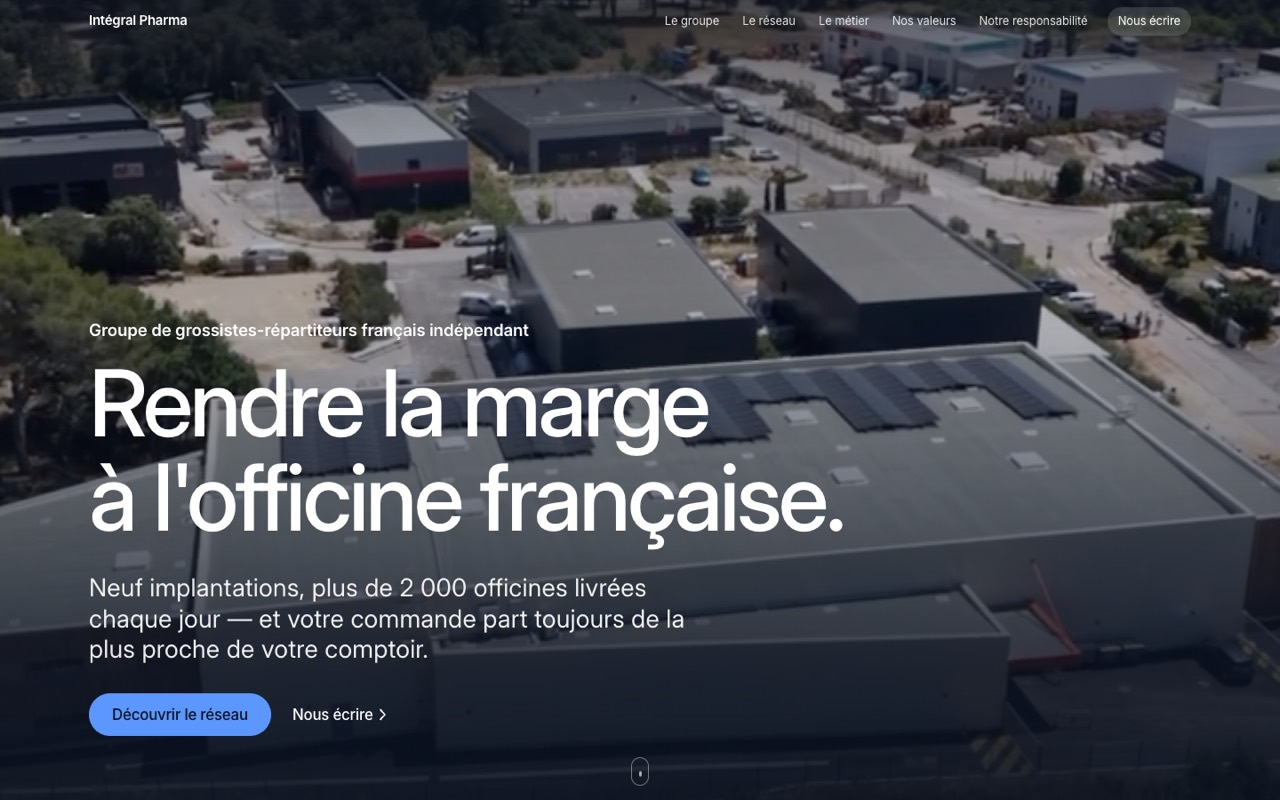
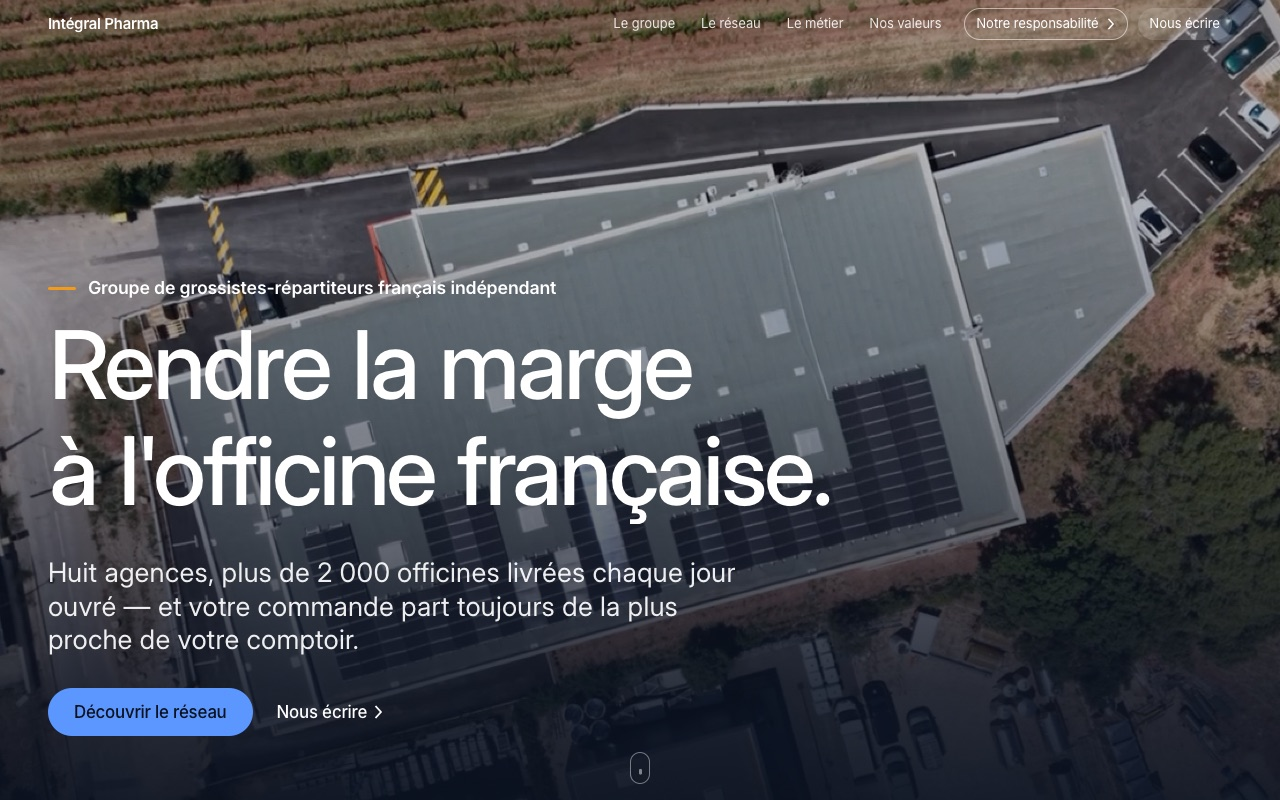
ux(marketing): apercu du site a jour (relecture du 18/09) — cache 20260918a

diff --git a/crm/v2/index.html b/crm/v2/index.html
@@ -12,7 +12,7 @@
     if ('serviceWorker' in navigator) {
       window.addEventListener('load', function () {
         var hadController = !!navigator.serviceWorker.controller;
-        navigator.serviceWorker.register('sw.js?v=20260917d').then(function (reg) {
+        navigator.serviceWorker.register('sw.js?v=20260918a').then(function (reg) {
           try { reg.update(); } catch (e) {}   // vérifie tout de suite au chargement          // pendant une longue session, re-vérifier périodiquement s'il y a une nouvelle version
           setInterval(function () { try { reg.update(); } catch (e) {} }, 5 * 60 * 1000);
           // dès qu'on revient sur l'appli (onglet réactivé) : re-check -> bannière « Actualiser » si nouvelle version
@@ -151,13 +151,13 @@
     <link href="https://fonts.googleapis.com/css2?family=Geist+Mono:wght@400;500;600;700&display=swap" rel="stylesheet">
   </noscript>
   <link rel="dns-prefetch" href="https://images.weserv.nl">
-  <link rel="stylesheet" href="v2.css?v=20260917d" />
-  <link rel="stylesheet" href="v2-motion.css?v=20260917d" />
+  <link rel="stylesheet" href="v2.css?v=20260918a" />
+  <link rel="stylesheet" href="v2-motion.css?v=20260918a" />
   <!-- Peau « Verrière » (choix Will 12/08/2026) — chargée en dernier, purement additive -->
-  <link rel="stylesheet" href="v2-verriere.css?v=20260917d" />
+  <link rel="stylesheet" href="v2-verriere.css?v=20260918a" />
 
   <!-- PWA : installable sur l'écran d'accueil (iOS + Android) -->
-  <link rel="manifest" href="manifest.webmanifest?v=20260917d" />
+  <link rel="manifest" href="manifest.webmanifest?v=20260918a" />
   <link rel="apple-touch-icon" href="icons/apple-touch-icon.png" />  <meta name="apple-mobile-web-app-capable" content="yes" />
   <meta name="apple-mobile-web-app-status-bar-style" content="default" />
   <meta name="apple-mobile-web-app-title" content="JARVIS" />
@@ -180,7 +180,7 @@
   <!-- 11/09/2026 — perf : copie locale épinglée (même fichier que rdv.html). Servie par le
        service worker, plus de troisième domaine avant le premier rendu, et la version ne
        change plus sans nous. Même origine = traces d'erreur complètes. -->
-  <script src="vendor/supabase/supabase-2.112.2.min.js?v=20260917d"></script>
+  <script src="vendor/supabase/supabase-2.112.2.min.js?v=20260918a"></script>
   <script>
     window.V2_DATAV = '20260904a';   // version des données lazy (pharma-fr-data.js) — recherche & fiches prospect
     // La marque de l'OUTIL. Will, 19/08/2026 : « c'est JARVIS CRM ; où il y a
@@ -207,12 +207,12 @@
 
   <!-- ═══ SOCLE (≈ 275 Ko) : le strict nécessaire à l'écran de connexion — 11/09/2026 ═══
        Avant : 80 scripts (6,05 Mo) chargés et exécutés AVANT le premier pixel. -->
-  <script src="v2-icons.js?v=20260917d"></script>
+  <script src="v2-icons.js?v=20260918a"></script>
   <!-- Table d'alias groupements (canonicalisation) : fusionne les doublons partout -->
-  <script src="groupement-alias.js?v=20260917d"></script>
-  <script src="v2-boot.js?v=20260917d"></script>
+  <script src="groupement-alias.js?v=20260918a"></script>
+  <script src="v2-boot.js?v=20260918a"></script>
   <!-- Profil commercial : lu DANS loadData (corrections manuelles de groupement) → avant les données -->
-  <script src="v2-profil.js?v=20260917d"></script>
+  <script src="v2-profil.js?v=20260918a"></script>
   <script>
     // ═══ LE RESTE (≈ 5,4 Mo) : MÊME ORDRE qu'avant, posé par V2.chargerScripts (v2-boot.js)
     // juste après le premier rendu, en scripts `async=false` (téléchargés en parallèle,
@@ -244,11 +244,11 @@
       'v2-visites.js', 'v2-campagne-cible.js'
     ];
   </script>
-  <link rel="stylesheet" href="vendor/leaflet/leaflet.css?v=20260917d">
-  <link rel="stylesheet" href="vendor/leaflet/MarkerCluster.css?v=20260917d">
-  <link rel="stylesheet" href="vendor/leaflet/MarkerCluster.Default.css?v=20260917d">
+  <link rel="stylesheet" href="vendor/leaflet/leaflet.css?v=20260918a">
+  <link rel="stylesheet" href="vendor/leaflet/MarkerCluster.css?v=20260918a">
+  <link rel="stylesheet" href="vendor/leaflet/MarkerCluster.Default.css?v=20260918a">
   <!-- App (boot), puis les deux couches qui enveloppent V2.render (sondage ≤ 500 ms : rester collées à v2-app) -->
-  <script src="v2-app.js?v=20260917d"></script>
-  <script src="v2-motion.js?v=20260917d"></script>
-  <script src="v2-bg.js?v=20260917d"></script>
+  <script src="v2-app.js?v=20260918a"></script>
+  <script src="v2-motion.js?v=20260918a"></script>
+  <script src="v2-bg.js?v=20260918a"></script>
 </body></html>

diff --git a/crm/v2/v2-boot.js b/crm/v2/v2-boot.js
@@ -874,7 +874,7 @@
   V2.chargerScripts = function (urls) {
     urls = urls || [];
     if (!urls.length) return Promise.resolve();
-    var V = '?v=20260917d' + (window.V2_VER || '20260915g');
+    var V = '?v=20260918a' + (window.V2_VER || '20260915g');
     return Promise.all(urls.map(function (u) {
       return new Promise(function (resolve) {
         var s = document.createElement('script');
@@ -1278,7 +1278,7 @@
     // de le servir, et le lecteur compacté ne trouverait pas ses dictionnaires.
     // Pas besoin de le suivre à chaque déploiement en revanche : quand `VER` de
     // sw.js change, l'activation du service worker efface tous les caches.
-    var V = '?v=20260917d';
+    var V = '?v=20260918a';
     V2.versionDonnees = V;   // lu par chargerScriptProtege (fiche carte)
     var promises = keys.map(function (k) {
       var src = (window.V2_DATA_BASE || '../') + DATA_FILES[k];

diff --git a/crm/v2/maquettes-data.js b/crm/v2/maquettes-data.js
@@ -9,7 +9,7 @@
 */
 window.MAQUETTES_SITE = [
   { id:'site-2026', n:1, nom:'Le site', source:'Version unique — base Cimaise',
-    geste:'L\'accueil et la page RSE. Le maillage pousse depuis Hyères sur la carte de France ; la page RSE traverse une journée, du toit solaire du siège au comptoir.',
+    geste:'L\'accueil et la page RSE. La carte en relief du réseau ouvre la fiche de chaque agence ; la page RSE traverse une journée, du toit solaire du siège au comptoir.',
     page:'../../site-integral/site-2026/index.html',
-    apercu:'../../site-integral/site-2026/vignette.jpg' }
+    apercu:'../../site-integral/site-2026/vignette.jpg?v=20260918a' }
 ];

diff --git a/crm/v2/v2-mkt.js b/crm/v2/v2-mkt.js
@@ -613,7 +613,7 @@
   function renderSite(root) {
     root.innerHTML = V2.topbar({ back: true, backTo: 'marketing', backLabel: 'Marketing' }) +
       '<div style="width:100%;height:calc(100vh - 66px);min-height:520px;background:#fff">' +
-        '<iframe src="../../site-integral/site-2026/index.html?v=20260828c" title="Le nouveau site Intégral Pharma" loading="lazy" style="width:100%;height:100%;border:0;display:block"></iframe>' +
+        '<iframe src="../../site-integral/site-2026/index.html?v=20260918a" title="Le nouveau site Intégral Pharma" loading="lazy" style="width:100%;height:100%;border:0;display:block"></iframe>' +
       '</div>';
   }
 

diff --git a/crm/v2/sw.js b/crm/v2/sw.js
@@ -10,7 +10,7 @@
 
    ⚠ Bumper VER à chaque déploiement (aligné sur le ?v= de index.html).
    ═══════════════════════════════════════════════════════════════════ */
-var VER = '20260917d';
+var VER = '20260918a';
 var CACHE = 'jarvis-' + VER;
 
 /* 11/09/2026 (perf, phase 3) — le SOCLE est rangé dès l'installation : les

diff --git a/crm/v2/v2-appro.js b/crm/v2/v2-appro.js
@@ -405,7 +405,7 @@
     if (_etabState) return;
     _etabState = 1;
     var s = document.createElement('script');
-    s.src = 'etab-prices-data.js?v=' + (window.__APPRO_V || '20260917d'); s.async = false;
+    s.src = 'etab-prices-data.js?v=' + (window.__APPRO_V || '20260918a'); s.async = false;
     s.onload = function () { _etabState = 2; approRerender(); };
     s.onerror = function () { _etabState = 2; };
     document.head.appendChild(s);

diff --git a/crm/v2/v2-comptoir.js b/crm/v2/v2-comptoir.js
@@ -86,7 +86,7 @@
     if (!window.ETAB_PRICES && !D.etabEtat) {
       D.etabEtat = 1;
       var s = document.createElement('script');
-      s.src = 'etab-prices-data.js?v=' + (window.__APPRO_V || '20260917d');
+      s.src = 'etab-prices-data.js?v=' + (window.__APPRO_V || '20260918a');
       s.async = true;
       s.onload = s.onerror = function () { D.etabEtat = 2; rerender(); };
       document.head.appendChild(s);

diff --git a/crm/v2/v2-brief-officine.js b/crm/v2/v2-brief-officine.js
@@ -381,7 +381,7 @@
     if (!_etab) {
       _etab = new Promise(function (ok) {
         var sc = document.createElement('script');
-        sc.src = 'etab-prices-data.js?v=' + (window.__APPRO_V || '20260917d');
+        sc.src = 'etab-prices-data.js?v=' + (window.__APPRO_V || '20260918a');
         sc.async = true;
         sc.onload = sc.onerror = function () { ok(); };
         document.head.appendChild(sc);
